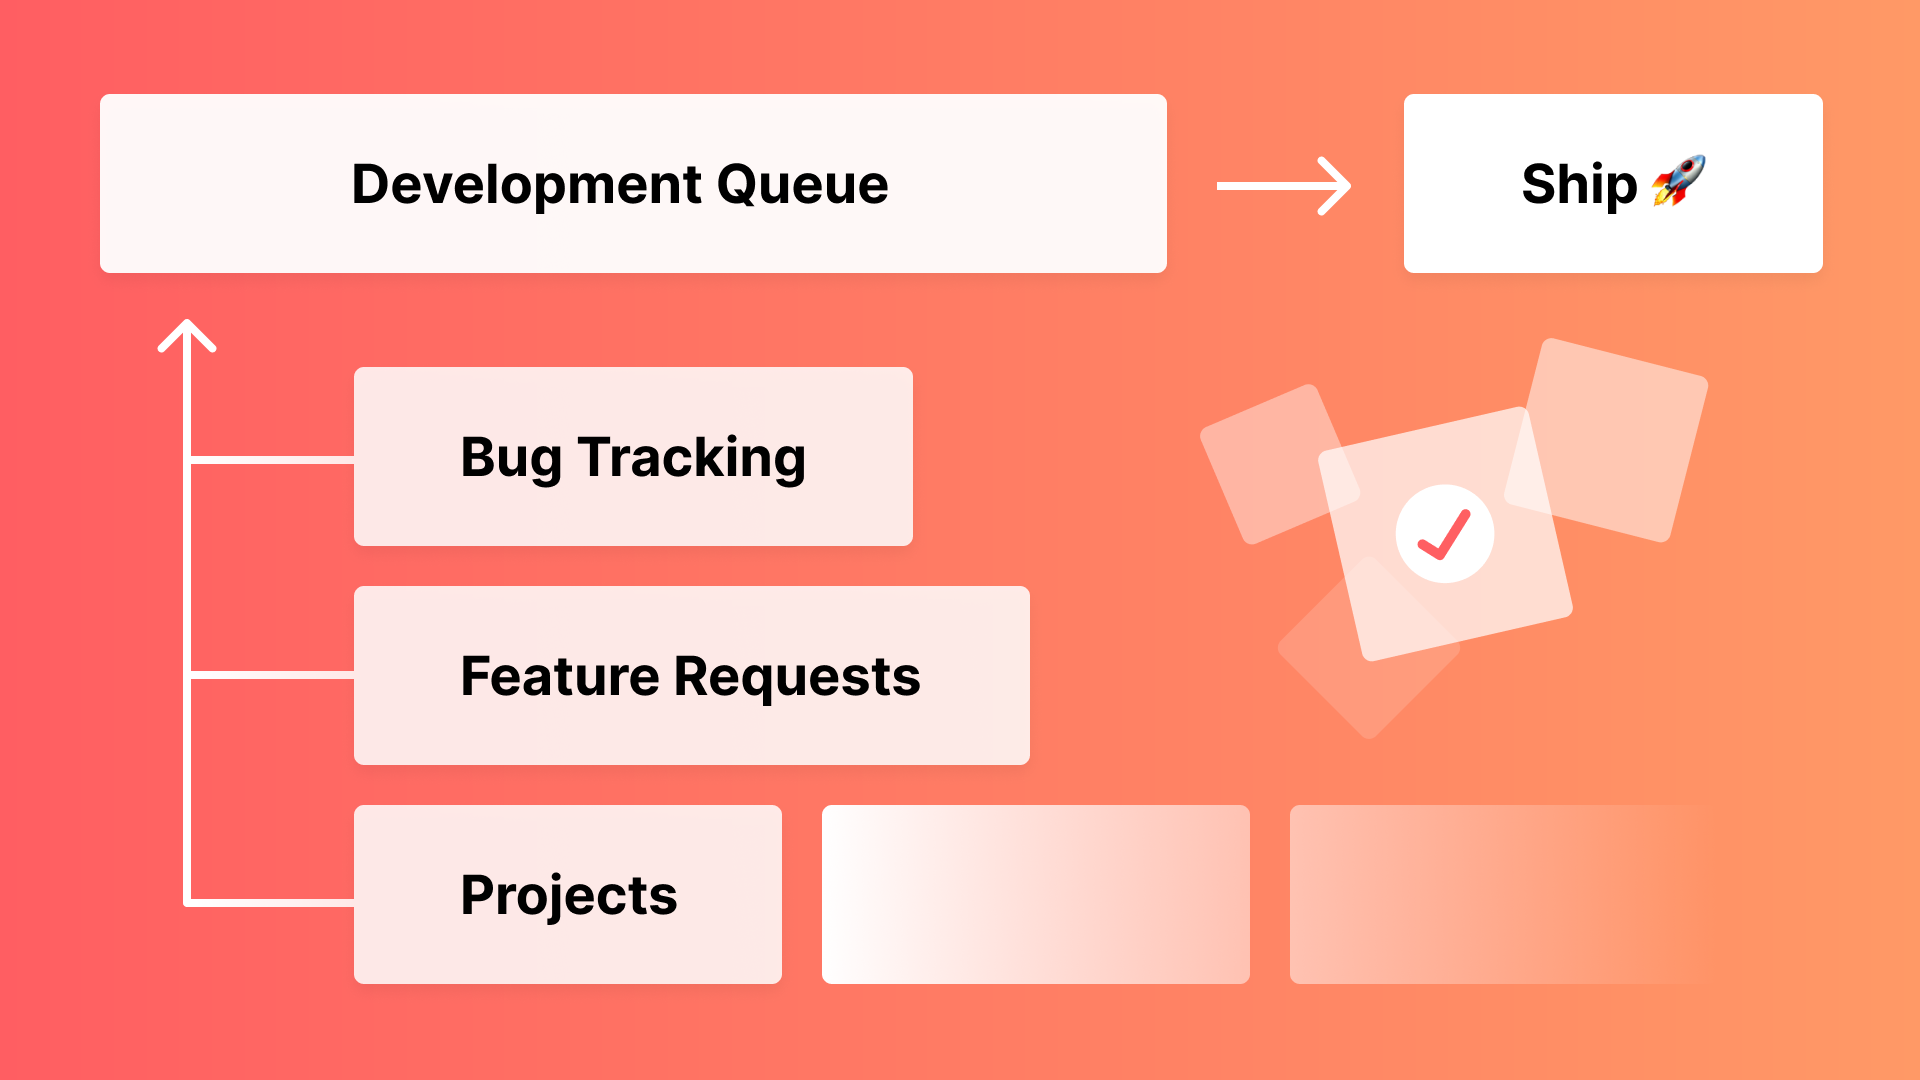
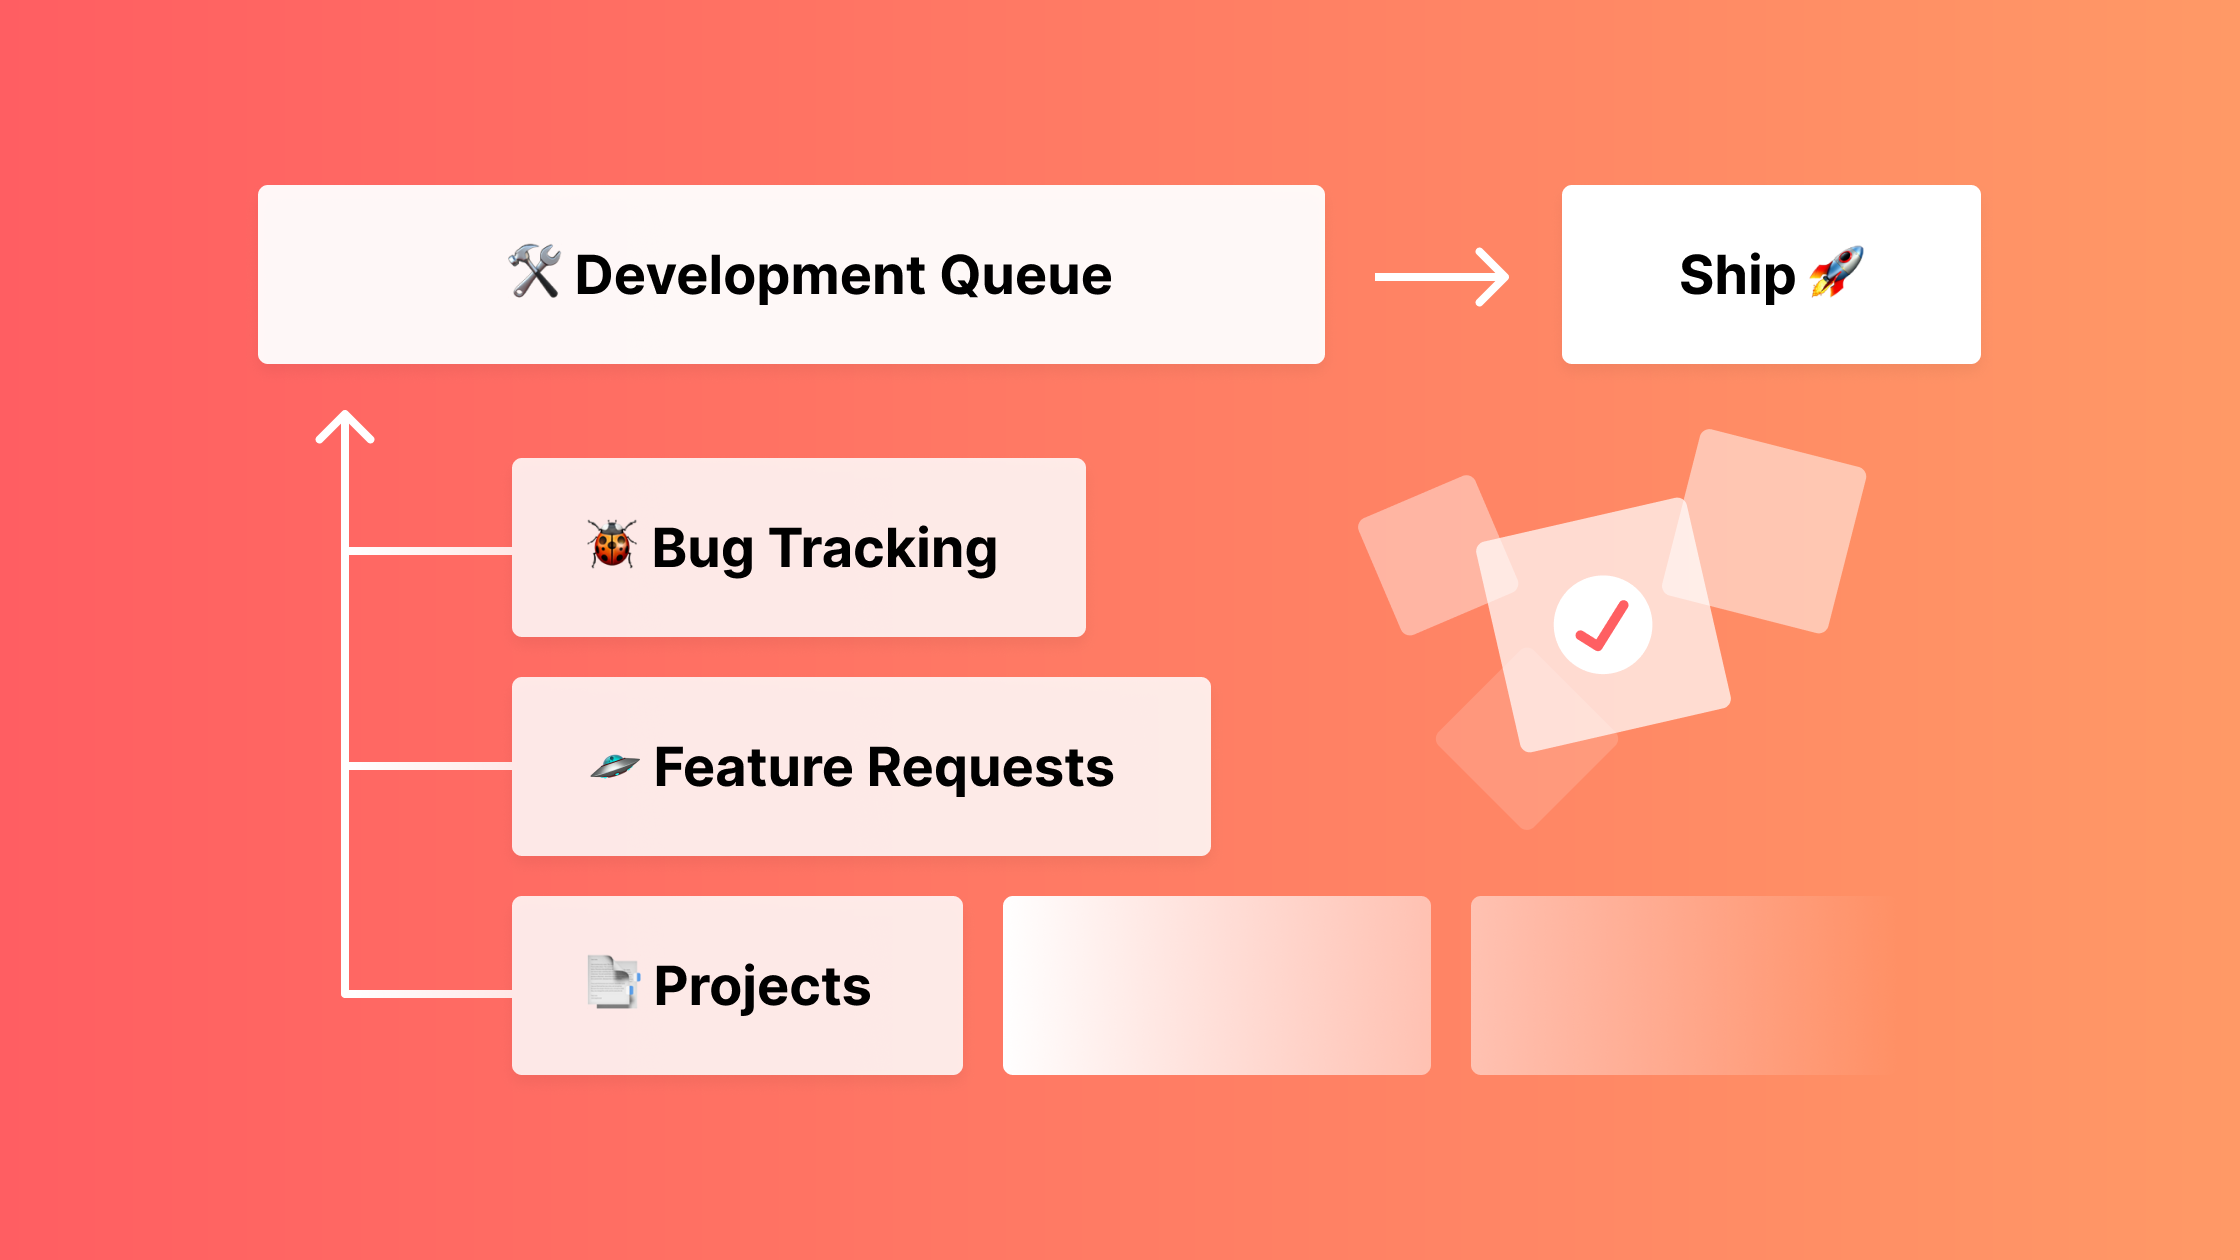
latest post updates

Changed region(s): [[0.0312, 0.0611, 0.9688, 0.9167]]

diff --git a/_posts/2020-01-20-optimizing-workflows-for-growing-development-teams.md b/_posts/2020-01-20-optimizing-workflows-for-growing-development-teams.md
@@ -3,16 +3,14 @@ layout: post
 tags: [ product, veritonic ]
 title: "Optimizing Workflows for Growing Development Teams"
 date: 2020-01-20
-image: /assets/img/optimizing-workflows/workflow-schematic.png
+image: /assets/img/posts/optimizing-workflows/workflow-schematic.png
 ---
-
-Optimizing Workflows for Growing Development Teams
 
 If there is any common thread among my last few posts, it is this: optimize, systemize, and automate as much as you possibly can and your job will be easier, you’ll have more room for creative thinking, and you can reinvest that extra creativity to grow more effectively.
 
 It’s a task I’ve been wrestling with over the past year as we ramp up at Veritonic, and the roles and objectives shift from a small team testing product-market fit to a medium sized team building a scalable, powerful SaaS application for an even broader market.
 
-[Insert full workflow tree]
+![Matt Gagliano Optimized Workflow for Growing Startup Engineering Team]({{ site.baseurl }}/assets/img/posts/optimizing-workflows/workflow-schematic.png "Matt Gagliano Optimized Workflow for Growing Startup Engineering Team")
 
 When I first joined Veritonic part-time in 2016, we were a close, lean team of six. Along with @falicon, I was one of a two person dev team, and it was easy for us to collaborate in real-time. We would bounce ideas off one another, take in feedback, iterate quickly, and deliver features our clients valued.
 
